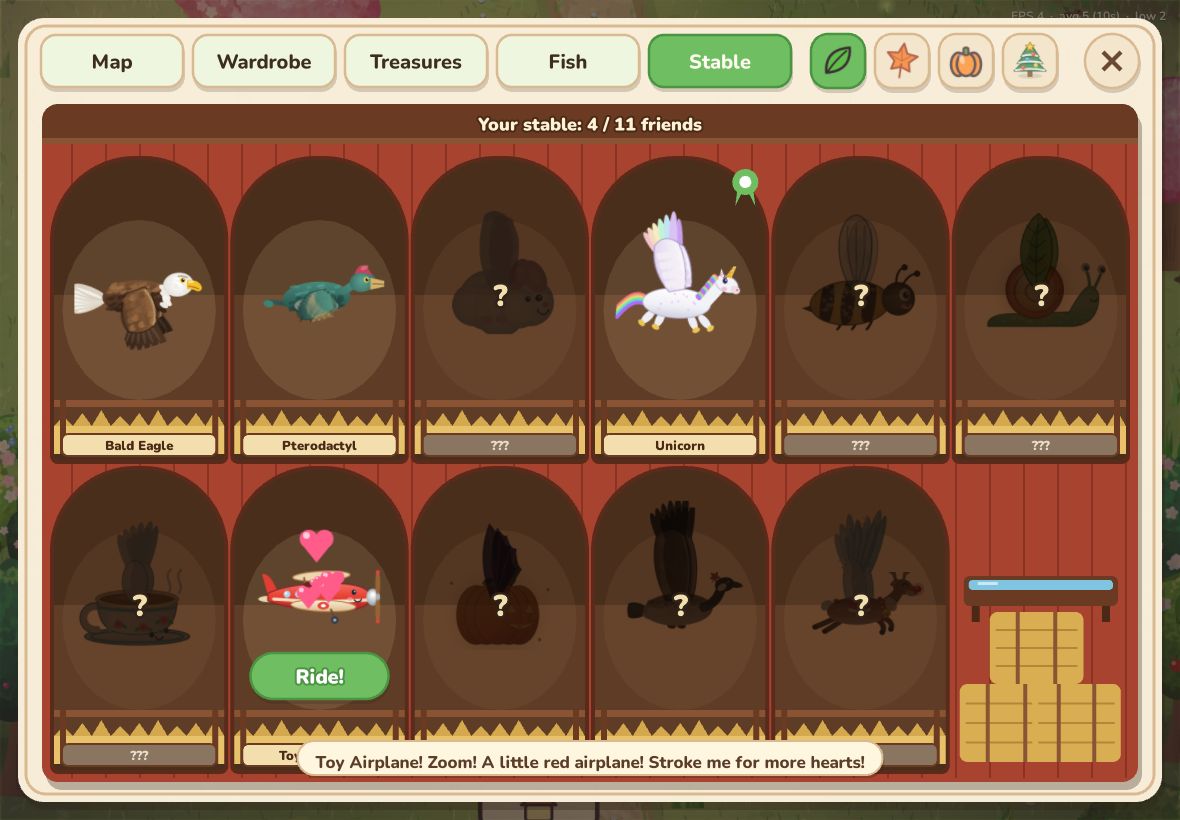
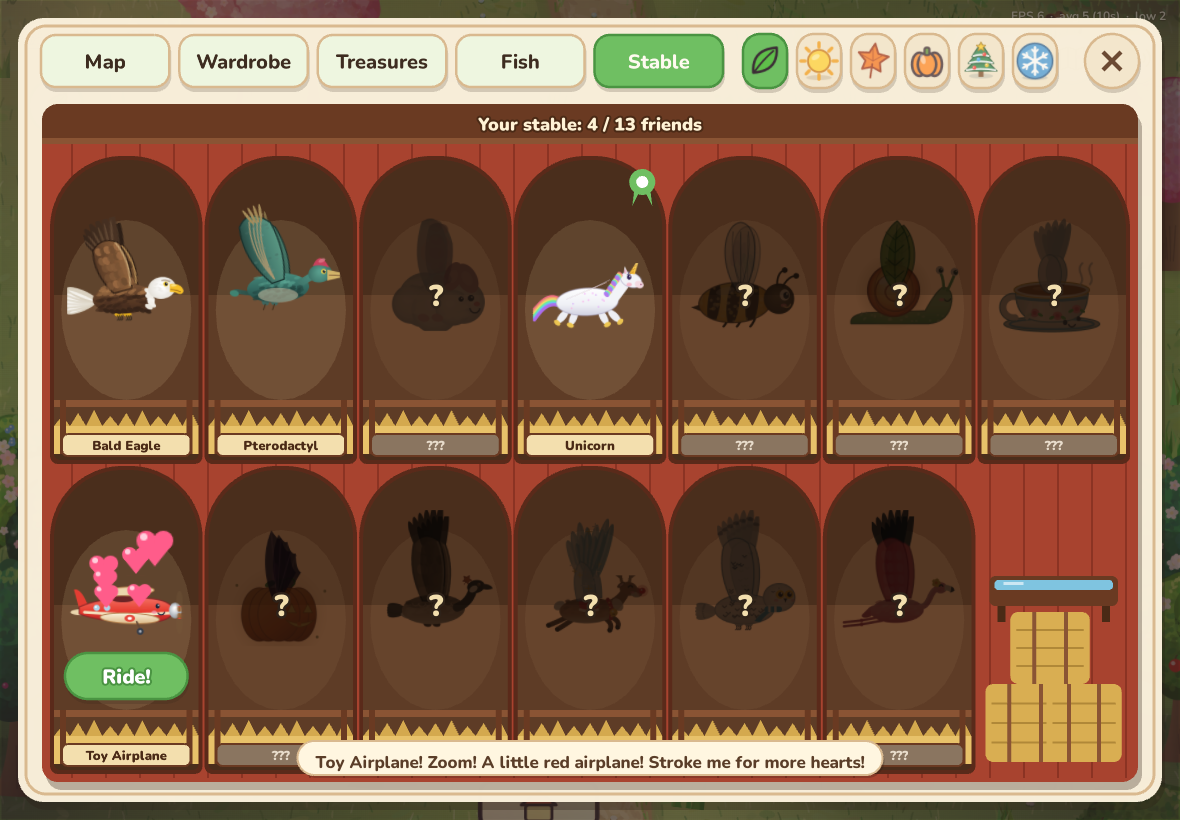
Theme mounts: Snowy Owl is Winter's default, Flamingo is Summer's; stable shows 13; theme-mounts spec

diff --git a/src/mount/seasonBirdsArt.ts b/src/mount/seasonBirdsArt.ts
@@ -1,0 +1,169 @@
+// Theme mounts for Winter and Summer, so every theme has its own default ride:
+// a round Snowy Owl in a cosy blue scarf (Winter) and a pink Flamingo (Summer).
+// Same frames as the eagle (body 120x64 facing right, wings 48x96 pointing up) so the rider sits the same.
+import Phaser from 'phaser';
+import { Ctx, canvasTex, hsl, dab, mulberry32, rr } from '../art';
+
+// ---------- Snowy Owl ----------
+function paintOwlBody(c: Ctx, w: number, h: number) {
+  const rng = mulberry32(3301);
+  const cy = h * 0.54;
+  // Short fan tail, white with grey bars.
+  for (let i = 0; i < 5; i++) {
+    const a = Math.PI + (i - 2) * 0.16;
+    c.save(); c.translate(32, cy + 2); c.rotate(a);
+    dab(c, 11, 0, 11, 4.2, 0, hsl(210, 15, 94 - Math.abs(i - 2) * 3));
+    dab(c, 14, 0, 1.2, 3.6, 0, hsl(215, 15, 58, 0.7));
+    c.restore();
+  }
+  // Fluffy feathered feet tucked under.
+  for (const dx of [0, 10]) {
+    dab(c, 54 + dx, cy + 14, 4.6, 3.6, 0.2, hsl(210, 20, 92));
+    c.strokeStyle = hsl(220, 20, 22); c.lineWidth = 1.1;
+    for (let k = 0; k < 3; k++) { c.beginPath(); c.moveTo(52 + dx + k * 2, cy + 17); c.quadraticCurveTo(53 + dx + k * 2, cy + 20, 51 + dx + k * 2, cy + 20.5); c.stroke(); }
+  }
+  // Round snowy body with soft blue shading underneath.
+  const g = c.createLinearGradient(0, cy - 16, 0, cy + 16);
+  g.addColorStop(0, '#ffffff'); g.addColorStop(0.65, hsl(210, 30, 94)); g.addColorStop(1, hsl(212, 30, 80));
+  c.fillStyle = g;
+  c.beginPath(); c.ellipse(60, cy, 30, 15, -0.02, 0, Math.PI * 2); c.fill();
+  c.strokeStyle = hsl(212, 25, 72); c.lineWidth = 1.2; c.stroke();
+  // Little dark chevron speckles.
+  c.strokeStyle = hsl(220, 18, 30, 0.75); c.lineWidth = 1.3; c.lineCap = 'round';
+  for (let i = 0; i < 18; i++) {
+    const x = rr(rng, 38, 80), y = cy + rr(rng, -10, 9);
+    c.beginPath(); c.moveTo(x - 2, y - 1); c.lineTo(x, y + 0.8); c.lineTo(x + 2, y - 1); c.stroke();
+  }
+  // Big round head right on the body (owls have no long neck).
+  const hg = c.createRadialGradient(94, cy - 16, 3, 95, cy - 12, 17);
+  hg.addColorStop(0, '#ffffff'); hg.addColorStop(1, hsl(210, 25, 88));
+  c.fillStyle = hg;
+  c.beginPath(); c.ellipse(95, cy - 12, 16, 14, 0, 0, Math.PI * 2); c.fill();
+  c.strokeStyle = hsl(212, 25, 72); c.lineWidth = 1.2; c.stroke();
+  for (let i = 0; i < 5; i++) { const x = rr(rng, 86, 104), y = cy - 22 + rr(rng, 0, 4); c.strokeStyle = hsl(220, 18, 34, 0.6); c.beginPath(); c.moveTo(x - 1.5, y); c.lineTo(x, y + 1); c.lineTo(x + 1.5, y); c.stroke(); }
+  // Facial disc + big golden eyes looking forward.
+  dab(c, 100, cy - 13, 10, 9, 0, hsl(210, 30, 97));
+  for (const ex of [96, 105]) {
+    dab(c, ex, cy - 15, 4.4, 4.4, 0, hsl(46, 100, 56));
+    dab(c, ex + 0.5, cy - 15, 2.4, 2.6, 0, hsl(250, 30, 10));
+    dab(c, ex + 1.3, cy - 16.2, 0.9, 0.9, 0, '#fff');
+  }
+  // Tiny dark beak.
+  c.fillStyle = hsl(220, 15, 22);
+  c.beginPath(); c.moveTo(99.5, cy - 11); c.lineTo(103, cy - 11); c.lineTo(101.5, cy - 6.5); c.closePath(); c.fill();
+  // Rosy cheeks.
+  dab(c, 92, cy - 9, 2.4, 1.4, 0, hsl(350, 80, 76, 0.6));
+  dab(c, 109, cy - 9, 2.2, 1.4, 0, hsl(350, 80, 76, 0.6));
+  // Cosy blue scarf with a trailing end.
+  c.fillStyle = hsl(205, 75, 52);
+  c.beginPath(); c.roundRect(80, cy - 3, 18, 6, 3); c.fill();
+  c.beginPath(); c.moveTo(82, cy + 1); c.quadraticCurveTo(74, cy + 6, 70, cy + 12); c.lineTo(76, cy + 13); c.quadraticCurveTo(80, cy + 7, 86, cy + 3); c.closePath(); c.fill();
+  c.fillStyle = '#fff'; c.fillRect(84, cy - 3, 2.4, 6); c.fillRect(90, cy - 3, 2.4, 6);
+}
+
+function paintOwlWing(c: Ctx, w: number, h: number, far: boolean) {
+  const rng = mulberry32(far ? 3302 : 3303);
+  const sx = w / 2, sy = h - 4, dk = far ? -9 : 0;
+  for (let i = 0; i < 6; i++) {
+    const a = -Math.PI / 2 - 0.42 + i * 0.12, len = 42 + i * 3;
+    c.save(); c.translate(sx - 6 + i * 1.5, sy - 38); c.rotate(a);
+    dab(c, len * 0.5, 0, len * 0.5, 4.6, 0, hsl(210, 18, 95 + dk - i));
+    dab(c, len * 0.8, 0, 2, 4, 0, hsl(218, 15, 50 + dk, 0.7));
+    c.restore();
+  }
+  c.fillStyle = hsl(210, 25, 97 + dk);
+  c.beginPath(); c.moveTo(sx - 9, sy); c.quadraticCurveTo(sx - 24, sy - 30, sx - 17, sy - 56); c.quadraticCurveTo(sx - 5, sy - 70, sx + 8, sy - 58); c.quadraticCurveTo(sx + 18, sy - 32, sx + 10, sy); c.closePath(); c.fill();
+  c.strokeStyle = hsl(212, 25, 66 + dk); c.lineWidth = 1.4; c.stroke();
+  c.strokeStyle = hsl(220, 18, 34 + dk, 0.6); c.lineWidth = 1.3; c.lineCap = 'round';
+  for (let i = 0; i < 10; i++) { const x = sx + rr(rng, -10, 8), y = sy - rr(rng, 8, 58); c.beginPath(); c.moveTo(x - 2, y - 1); c.lineTo(x, y + 0.8); c.lineTo(x + 2, y - 1); c.stroke(); }
+}
+
+function paintOwlIcon(c: Ctx, w: number) {
+  const cx = w / 2, cy = w / 2 + 2;
+  c.fillStyle = '#ffffff'; c.beginPath(); c.ellipse(cx, cy, 16, 15, 0, 0, Math.PI * 2); c.fill();
+  c.strokeStyle = hsl(212, 25, 66); c.lineWidth = 1.5; c.stroke();
+  for (const s of [-1, 1]) {
+    dab(c, cx + s * 6, cy - 2, 5, 5, 0, hsl(46, 100, 56));
+    dab(c, cx + s * 6 + 0.5, cy - 2, 2.8, 3, 0, hsl(250, 30, 10));
+    dab(c, cx + s * 6 + 1.4, cy - 3.3, 1, 1, 0, '#fff');
+  }
+  c.fillStyle = hsl(220, 15, 22); c.beginPath(); c.moveTo(cx - 2, cy + 3); c.lineTo(cx + 2, cy + 3); c.lineTo(cx, cy + 7); c.closePath(); c.fill();
+  c.fillStyle = hsl(205, 75, 52); c.beginPath(); c.roundRect(cx - 12, cy + 10, 24, 6, 3); c.fill();
+}
+
+// ---------- Flamingo ----------
+function paintFlamingoBody(c: Ctx, w: number, h: number) {
+  const rng = mulberry32(3401);
+  const cy = h * 0.56;
+  const pink = (l: number, a = 1) => hsl(345, 85, l, a);
+  // Long legs trailing straight back (that's how flamingos fly), knobbly knees.
+  c.lineCap = 'round'; c.strokeStyle = pink(62); c.lineWidth = 2.4;
+  for (const dy of [0, 4]) { c.beginPath(); c.moveTo(44, cy + 6 + dy); c.lineTo(22, cy + 10 + dy); c.lineTo(4, cy + 12 + dy); c.stroke(); dab(c, 22, cy + 10 + dy, 2, 1.8, 0, pink(56)); }
+  // Fluffy tail.
+  for (let i = 0; i < 4; i++) dab(c, 34 - i * 2, cy - 2 + i * 2, 6, 3, -0.3, pink(72 - i * 3));
+  // Body.
+  const g = c.createLinearGradient(0, cy - 13, 0, cy + 13);
+  g.addColorStop(0, pink(80)); g.addColorStop(0.6, pink(70)); g.addColorStop(1, pink(60));
+  c.fillStyle = g;
+  c.beginPath(); c.ellipse(58, cy, 27, 12.5, -0.04, 0, Math.PI * 2); c.fill();
+  for (let i = 0; i < 40; i++) { const x = rr(rng, 38, 80), y = cy + rr(rng, -9, 8); dab(c, x, y, rr(rng, 2.4, 3.6), rr(rng, 1, 1.6), -0.3, pink(rr(rng, 64, 84), 0.5)); }
+  // Long S-curved neck reaching forward.
+  c.strokeStyle = pink(74); c.lineWidth = 6;
+  c.beginPath(); c.moveTo(80, cy - 4); c.bezierCurveTo(92, cy - 2, 90, cy - 22, 100, cy - 22); c.stroke();
+  c.strokeStyle = pink(84, 0.7); c.lineWidth = 2;
+  c.beginPath(); c.moveTo(81, cy - 6); c.bezierCurveTo(91, cy - 5, 89, cy - 23, 99, cy - 24); c.stroke();
+  // Head.
+  c.fillStyle = pink(76); c.beginPath(); c.ellipse(102, cy - 23, 6.5, 5.6, 0, 0, Math.PI * 2); c.fill();
+  // Bent beak: pale with a black tip.
+  c.fillStyle = hsl(40, 40, 92);
+  c.beginPath(); c.moveTo(106, cy - 26); c.quadraticCurveTo(114, cy - 26, 116, cy - 20); c.lineTo(112, cy - 18); c.quadraticCurveTo(110, cy - 21, 106, cy - 20); c.closePath(); c.fill();
+  c.fillStyle = hsl(220, 15, 16);
+  c.beginPath(); c.moveTo(113, cy - 24.5); c.quadraticCurveTo(116, cy - 23, 116, cy - 20); c.lineTo(112, cy - 18); c.quadraticCurveTo(112.5, cy - 21, 113, cy - 24.5); c.closePath(); c.fill();
+  // Happy eye and cheek.
+  c.strokeStyle = hsl(250, 30, 12); c.lineWidth = 1.4;
+  c.beginPath(); c.arc(102.5, cy - 24, 1.9, Math.PI * 1.1, Math.PI * 1.9); c.stroke();
+  dab(c, 101, cy - 20.5, 2, 1.2, 0, hsl(0, 90, 70, 0.6));
+  // A little flower behind the ear for summer.
+  for (let i = 0; i < 5; i++) { const a = (i * Math.PI * 2) / 5; dab(c, 97.5 + Math.cos(a) * 2.6, cy - 28 + Math.sin(a) * 2.6, 2, 2, 0, hsl(48, 100, 62)); }
+  dab(c, 97.5, cy - 28, 1.5, 1.5, 0, hsl(28, 90, 52));
+}
+
+function paintFlamingoWing(c: Ctx, w: number, h: number, far: boolean) {
+  const sx = w / 2, sy = h - 4, dk = far ? -9 : 0;
+  // Black flight feathers at the tip.
+  for (let i = 0; i < 6; i++) {
+    const a = -Math.PI / 2 - 0.42 + i * 0.12, len = 44 + i * 3;
+    c.save(); c.translate(sx - 6 + i * 1.5, sy - 40); c.rotate(a);
+    dab(c, len * 0.5, 0, len * 0.5, 4.2, 0, hsl(220, 15, 14 + i + dk / 2));
+    c.restore();
+  }
+  const g = c.createLinearGradient(sx - 20, 0, sx + 20, 0);
+  g.addColorStop(0, hsl(350, 80, 58 + dk)); g.addColorStop(1, hsl(345, 85, 76 + dk));
+  c.fillStyle = g;
+  c.beginPath(); c.moveTo(sx - 9, sy); c.quadraticCurveTo(sx - 24, sy - 30, sx - 17, sy - 56); c.quadraticCurveTo(sx - 5, sy - 70, sx + 8, sy - 58); c.quadraticCurveTo(sx + 18, sy - 32, sx + 10, sy); c.closePath(); c.fill();
+  c.strokeStyle = hsl(350, 60, 44 + dk, 0.8); c.lineWidth = 1.4; c.stroke();
+  for (let row = 0; row < 4; row++) for (let i = 0; i < 4; i++) dab(c, sx - 8 + i * 5 - row, sy - 10 - row * 12, 3.2, 5, -0.15, hsl(345, 85, 70 + dk + (i % 2) * 6, 0.7));
+}
+
+function paintFlamingoIcon(c: Ctx, w: number) {
+  const cx = w / 2, cy = w / 2;
+  c.strokeStyle = hsl(345, 85, 72); c.lineWidth = 6; c.lineCap = 'round';
+  c.beginPath(); c.moveTo(cx - 6, cy + 18); c.bezierCurveTo(cx - 16, cy + 4, cx + 6, cy - 2, cx - 4, cy - 10); c.stroke();
+  c.fillStyle = hsl(345, 85, 76); c.beginPath(); c.ellipse(cx - 2, cy - 12, 8, 7, 0, 0, Math.PI * 2); c.fill();
+  c.fillStyle = hsl(40, 40, 92);
+  c.beginPath(); c.moveTo(cx + 4, cy - 16); c.quadraticCurveTo(cx + 14, cy - 15, cx + 15, cy - 7); c.lineTo(cx + 10, cy - 6); c.quadraticCurveTo(cx + 9, cy - 10, cx + 4, cy - 9); c.closePath(); c.fill();
+  c.fillStyle = hsl(220, 15, 16);
+  c.beginPath(); c.moveTo(cx + 12, cy - 13); c.quadraticCurveTo(cx + 15, cy - 11, cx + 15, cy - 7); c.lineTo(cx + 10, cy - 6); c.closePath(); c.fill();
+  c.strokeStyle = hsl(250, 30, 12); c.lineWidth = 1.6; c.beginPath(); c.arc(cx, cy - 13, 2, Math.PI * 1.1, Math.PI * 1.9); c.stroke();
+}
+
+export function paintSeasonBirds(scene: Phaser.Scene) {
+  canvasTex(scene, 'owl_body', 120, 64, (c) => paintOwlBody(c, 120, 64));
+  canvasTex(scene, 'owl_wing', 48, 96, (c) => paintOwlWing(c, 48, 96, false));
+  canvasTex(scene, 'owl_wing_far', 48, 96, (c) => paintOwlWing(c, 48, 96, true));
+  canvasTex(scene, 'i_owl', 48, 48, (c) => paintOwlIcon(c, 48), 2);
+  canvasTex(scene, 'flam_body', 120, 64, (c) => paintFlamingoBody(c, 120, 64));
+  canvasTex(scene, 'flam_wing', 48, 96, (c) => paintFlamingoWing(c, 48, 96, false));
+  canvasTex(scene, 'flam_wing_far', 48, 96, (c) => paintFlamingoWing(c, 48, 96, true));
+  canvasTex(scene, 'i_flamingo', 48, 48, (c) => paintFlamingoIcon(c, 48), 2);
+}

diff --git a/tests/theme-mounts.spec.ts b/tests/theme-mounts.spec.ts
@@ -1,0 +1,59 @@
+import { test, expect, type Page } from '@playwright/test';
+import { pathToFileURL } from 'node:url';
+import { resolve } from 'node:path';
+
+// Every theme has its own default mount: Spring eagle, Summer flamingo, Fall goose, Halloween pumpkin,
+// Christmas reindeer, Winter snowy owl. Call Mount (touch) in Winter and Summer brings their own bird
+// straight away (no picker), you ride it, and a tap on the ground drops you off.
+const FILE = pathToFileURL(resolve('dist-single/index.html')).href;
+const SHOTS = process.env.MOUNT_SHOTS ?? 'test-results';
+const cozy = (page: Page, expr: string) => page.evaluate(`(window.__cozy.${expr})`) as Promise<any>;
+const mount = (page: Page) => cozy(page, 'mount()');
+const tapRect = async (page: Page, k: string) => {
+  const r = await page.evaluate((k) => (window as any).__vui.rects[k], k);
+  await page.touchscreen.tap(r.x + r.w / 2, r.y + r.h / 2);
+};
+
+async function rideDefault(page: Page, themeId: string, want: string, shot: string) {
+  try {
+    const errors: string[] = [];
+    page.on('pageerror', (e) => errors.push(e.message));
+    await page.goto(FILE);
+    await page.evaluate((t) => { (window as any).__T = t; }, themeId);
+    await page.evaluate(() => {
+      localStorage.clear();
+      localStorage.setItem('cozy.save.v2', JSON.stringify({ v: 2, theme: (window as any).__T, puzzles: {}, treasures: [], fish: {}, minor: {}, visited: ['glade'], chests: [], snacks: 0, tips: [] }));
+    });
+    await page.reload();
+    await page.waitForFunction(() => (window as any).__cozy?.ready, null, { timeout: 180_000 });
+    await page.waitForTimeout(1200);
+    for (let i = 0; i < 8 && (await cozy(page, 'state')).dialogOpen; i++) { await page.touchscreen.tap(590, 700); await page.waitForTimeout(500); }
+    expect((await cozy(page, 'village()')).theme).toBe(themeId);
+
+    const tp = (x: number, y: number) => page.evaluate(([x, y]) => (window as any).__cozy.teleport(x, y), [x, y]);
+    await tp(1500, 1500);
+    await page.waitForTimeout(1500);
+    await expect.poll(() => page.evaluate(() => (window as any).__game.scene.getScene('world').mount.canCall()), { timeout: 60_000, intervals: [300] }).toBe(true);
+    await tapRect(page, 'mount');
+    await expect.poll(async () => (await mount(page)).id, { timeout: 10_000, intervals: [100] }).toBe(want);
+    expect(await page.evaluate(() => !!(window as any).__vui.mountPicker)).toBe(false);
+    await expect.poll(async () => (await mount(page)).phase, { timeout: 90_000, intervals: [200] }).toBe('ride');
+    await page.waitForTimeout(1500);
+    await page.screenshot({ path: `${SHOTS}/${shot}` });
+    await page.evaluate(() => { const m = (window as any).__cozy.mount(); (window as any).__cozy.mountTap(m.ground[0] + 120, m.ground[1] + 80); });
+    await expect.poll(async () => (await mount(page)).phase, { timeout: 120_000, intervals: [300] }).toBe('off');
+    expect(errors).toEqual([]);
+  } finally {
+    await page.close();
+  }
+}
+
+test('winter: snowy owl is the default mount', async ({ page }) => {
+  test.setTimeout(360_000);
+  await rideDefault(page, 'winter', 'snowy_owl', 'winter-owl-ride.png');
+});
+
+test('summer: flamingo is the default mount', async ({ page }) => {
+  test.setTimeout(360_000);
+  await rideDefault(page, 'summer', 'flamingo', 'summer-flamingo-ride.png');
+});

diff --git a/src/mount/defs.ts b/src/mount/defs.ts
@@ -118,15 +118,35 @@ export const MOUNTS: MountDef[] = [
     blurb: 'Jingle jingle! A flying reindeer with a glowing red nose!',
     flapRate: 1.2,
   },
+  {
+    // Winter's default mount (free in Winter): a round snowy owl in a cosy blue scarf.
+    id: 'snowy_owl',
+    name: 'Snowy Owl',
+    treasure: 'snowy_owl_feather',
+    body: 'owl_body', wing: 'owl_wing', wingFar: 'owl_wing_far', icon: 'i_owl',
+    scale: 0.85,
+    blurb: 'Hoo hoo! A fluffy snowy owl in a cosy scarf!',
+    flapRate: 0.9,
+  },
+  {
+    // Summer's default mount (free in Summer): a pink flamingo with a flower behind its ear.
+    id: 'flamingo',
+    name: 'Flamingo',
+    treasure: 'flamingo_feather',
+    body: 'flam_body', wing: 'flam_wing', wingFar: 'flam_wing_far', icon: 'i_flamingo',
+    scale: 0.85,
+    blurb: 'A pretty pink flamingo for sunny days!',
+    flapRate: 1.1,
+  },
 ];
 
 export function mountById(id: string): MountDef {
   return MOUNTS.find((m) => m.id === id) ?? MOUNTS[0];
 }
 
-/** The theme's own default mount: pumpkin in Halloween, Canada goose in Fall, reindeer in Christmas and Winter, bald eagle otherwise. */
+/** The theme's own default mount: pumpkin in Halloween, goose in Fall, reindeer in Christmas, snowy owl in Winter, flamingo in Summer, bald eagle otherwise (Spring). */
 export function themeDefaultMount(): string {
-  return theme.id === 'halloween' ? 'pumpkin' : theme.id === 'fall' ? 'goose' : theme.id === 'christmas' || theme.id === 'winter' ? 'reindeer' : 'eagle';
+  return theme.id === 'halloween' ? 'pumpkin' : theme.id === 'fall' ? 'goose' : theme.id === 'christmas' ? 'reindeer' : theme.id === 'winter' ? 'snowy_owl' : theme.id === 'summer' ? 'flamingo' : 'eagle';
 }
 
 export function isMountUnlocked(m: MountDef): boolean {

diff --git a/src/whatsnew.ts b/src/whatsnew.ts
@@ -3,13 +3,13 @@
 // Keep each bullet short and simple: kids read these.
 // icon: 'wood' | 'fruit' | 'berry' | 'star' | 'heart' (a little picture beside the line).
 
-export const VERSION = '2026-10-23-summer2';
+export const VERSION = '2026-10-23-mounts1';
 
 export type WhatsNewItem = { icon: 'wood' | 'fruit' | 'berry' | 'star' | 'heart'; text: string };
 
 export const ITEMS: WhatsNewItem[] = [
-  { icon: 'heart', text: 'A new Summer theme! Tap the sun to make the glade bright and sunny. Tap the sunflowers to make them dance and tap a beach ball to bounce it!' },
-  { icon: 'star', text: 'A new Winter theme! Tap the snowflake to make the whole glade snowy and quiet. Say hi to the snowmen and listen to the soft winter music.' },
+  { icon: 'heart', text: 'A new Summer theme! Tap the sun to make the glade bright and sunny. Tap the sunflowers to dance, bounce a beach ball, and ride the pink Flamingo!' },
+  { icon: 'star', text: 'A new Winter theme! Tap the snowflake to make the whole glade snowy and quiet. Say hi to the snowmen and ride the fluffy Snowy Owl!' },
   { icon: 'berry', text: 'Go inside the Garden shed and the Fishing Hut! Water the flower pots and pick the blooms, or tap the fishing hole to cast your line and catch a fish.' },
   { icon: 'wood', text: 'Build toys in the Workshop! Tap your Workshop, then Go inside! Tap the workbench, pick a toy boat, birdhouse, frog or horsey, then tap tap tap to hammer it. Uses your wood and stone.' },
 ];

diff --git a/playwright.touch.config.ts b/playwright.touch.config.ts
@@ -3,7 +3,7 @@ import { defineConfig } from '@playwright/test';
 // iPad touch run against the single-file build over file:// (no server needed).
 export default defineConfig({
   testDir: './tests',
-  testMatch: /(touch|world|village|seq|reset|wild|wild-combat|harvest|fruit|entry|whatsnew|mount|mount-picker|mood|wild-unlocks|halloween|pumpkin-default|wild-walk|scarf-coat|spring|care|stones|trail|feedfriend|berries|move|fall|mount-lunchbox|mount-steer|christmas|christmas-reindeer|christmas-props|christmas-wild|pinch-zoom|theme-hud|random-start|fast-travel|boat|wardrobe|map|treasures|fish|stable|interior|kitchen|workshop|rooms|winter|summer)\.spec\.ts/,
+  testMatch: /(touch|world|village|seq|reset|wild|wild-combat|harvest|fruit|entry|whatsnew|mount|mount-picker|mood|wild-unlocks|halloween|pumpkin-default|wild-walk|scarf-coat|spring|care|stones|trail|feedfriend|berries|move|fall|mount-lunchbox|mount-steer|christmas|christmas-reindeer|christmas-props|christmas-wild|pinch-zoom|theme-hud|random-start|fast-travel|boat|wardrobe|map|treasures|fish|stable|interior|kitchen|workshop|rooms|winter|summer|theme-mounts)\.spec\.ts/,
   timeout: 900_000,
   retries: 0,
   workers: 1,

diff --git a/src/scenes/Menu.ts b/src/scenes/Menu.ts
@@ -1225,6 +1225,8 @@ export class MenuScene extends Phaser.Scene {
     if (m.id === 'goose') return 'The Canada Goose comes to ride in Fall. Tap the leaf button to try Fall!';
     if (m.id === 'reindeer') return 'The Reindeer comes to ride at Christmas. Tap the tree button to try Christmas!';
     if (m.id === 'pumpkin') return 'The Pumpkin rides along at Halloween!';
+    if (m.id === 'snowy_owl') return 'The Snowy Owl comes to ride in Winter. Tap the snowflake button to try Winter!';
+    if (m.id === 'flamingo') return 'The Flamingo comes to ride in Summer. Tap the sun button to try Summer!';
     return `Keep exploring to meet the ${m.name}!`;
   }
 

diff --git a/tests/stable.spec.ts b/tests/stable.spec.ts
@@ -39,7 +39,7 @@ test('stable: every mount in a stall, locked ones give hints', async ({ playwrig
       await expect.poll(() => page.evaluate(() => (window as any).__menu.tab), { timeout: 20_000 }).toBe('stable');
       await page.waitForTimeout(800);
       const pets = await page.evaluate(() => (window as any).__menu.stablePets.map((p: any) => [p.id, p.on]));
-      expect(pets.length).toBe(11);
+      expect(pets.length).toBe(13);
       const on = pets.filter((p: any) => p[1]).map((p: any) => p[0]).sort();
       expect(on).toEqual(['airplane', 'eagle', 'pterodactyl', 'unicorn']);
       const vp = page.viewportSize()!;

diff --git a/src/art.ts b/src/art.ts
@@ -1180,6 +1180,7 @@ import { paintPumpkinMount } from './mount/pumpkinArt';
 import { paintFallArt } from './mount/gooseArt';
 import { paintChristmasArt } from './mount/xmasArt';
 import { paintReindeer } from './mount/reindeerArt';
+import { paintSeasonBirds } from './mount/seasonBirdsArt';
 import { paintVillageArt } from './village/vart';
 
 export function paintAll(scene: Phaser.Scene) {
@@ -1309,6 +1310,7 @@ export function paintAll(scene: Phaser.Scene) {
   paintFallArt(scene);
   paintChristmasArt(scene);
   paintReindeer(scene);
+  paintSeasonBirds(scene);
   buildAtlas(scene);
   paintVillageArt(scene);
 }

diff --git a/src/audio.ts b/src/audio.ts
@@ -624,6 +624,8 @@ class Synth {
       case 'pumpkin': this.giggle(); break;
       case 'goose': this.quack(); break;
       case 'reindeer': [2349, 2637, 2349, 2637].forEach((f, i) => this.bell(f, i * 0.08, 0.05, 0.5)); break;
+      case 'snowy_owl': [392, 330].forEach((f, i) => v(f, i * 0.28, 0.08, 0.24, 'sine')); break;
+      case 'flamingo': [523, 659, 523].forEach((f, i) => v(f, i * 0.09, 0.06, 0.1, 'square')); break;
       default: this.sparkle();
     }
   }
